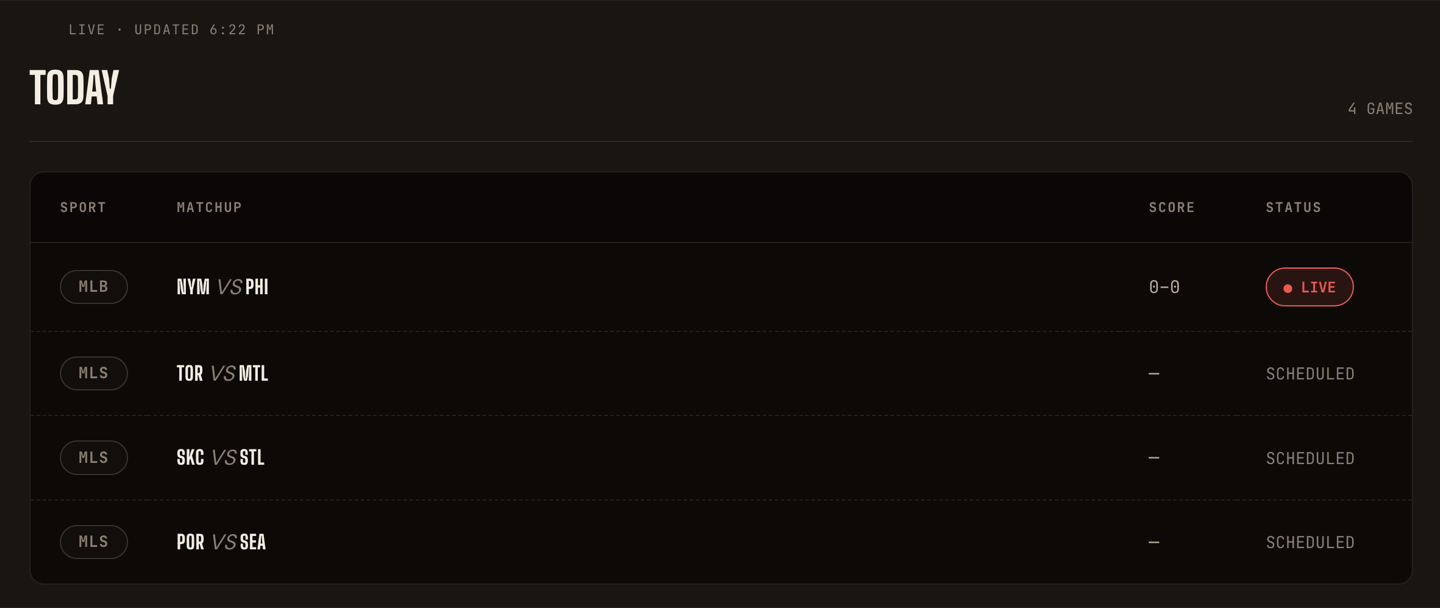
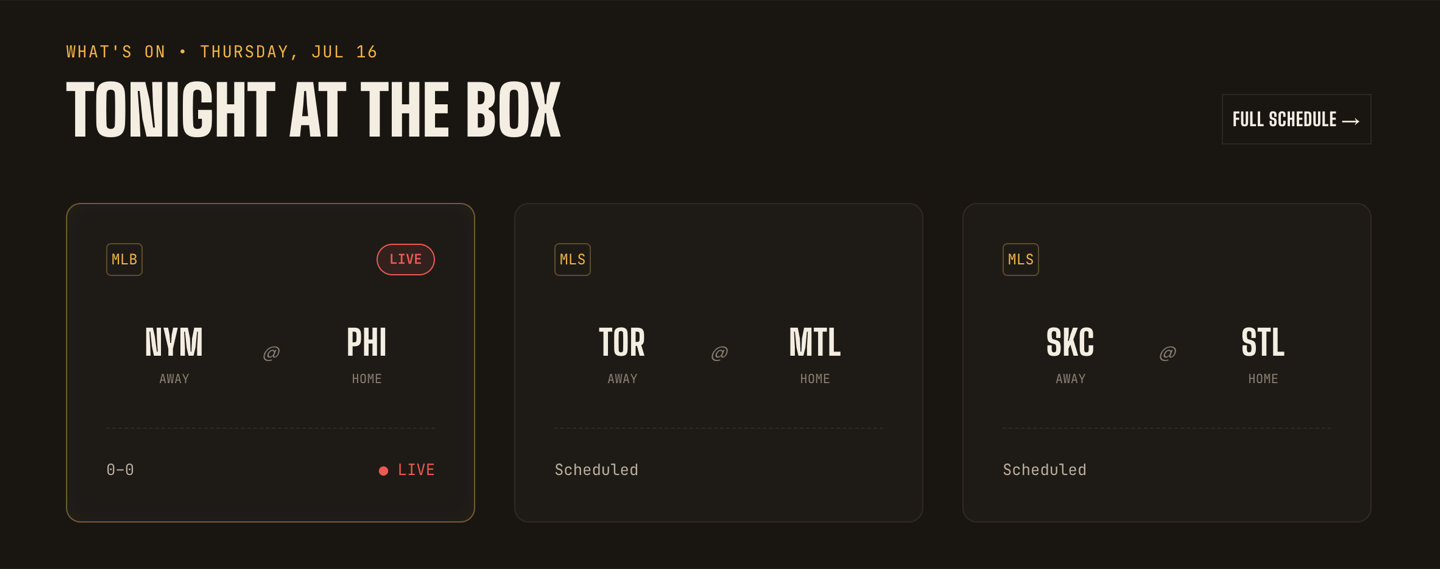
[Feature] Updated sports bar website with new screenshots and improved layout
- Added new screenshots for happy hour, menu sorting, and what's live today
- Removed old screenshots and updated descriptions for desktop pages
- Updated the layout to highlight happy hour and events more prominently
- Added a new section for the menu with improved category filtering

diff --git a/sports-bar-co.html b/sports-bar-co.html
@@ -97,17 +97,6 @@
         <div class="case-section">
             <h3>Live Scores</h3>
             <p>Seven leagues — NFL, MLB, NBA, NHL, CFB, CBB, and MLS — pulled live from ESPN's official API. The "What's On" board shows how many games are live right now, how many are coming up today, and a live countdown to the next tip-off. Guests can filter by day (up to 7 days ahead) and by sport. The board pulls fresh data on every load with no page refresh needed.</p>
-            <div class="browser-mockup ss-clickable" onclick="openLightbox(this)">
-                <div class="browser-bar">
-                    <div class="browser-dots">
-                        <div class="browser-dot close"></div>
-                        <div class="browser-dot minimize"></div>
-                        <div class="browser-dot maximize"></div>
-                    </div>
-                    <div class="browser-url">the-sports-bar.vercel.app/games.html</div>
-                </div>
-                <img src="assets/images/thesportsbarco/screenshot-games.png" alt="Live scores — 7 leagues, ESPN API, day and sport filters" style="width:100%;display:block;" />
-            </div>
         </div>
 
         <div class="case-section">
@@ -119,65 +108,18 @@
         </div>
 
         <div class="case-section">
-            <h3>Desktop Pages</h3>
-            <p style="font-size:0.85em;color:var(--color-text-muted);margin:-0.5em 0 1.25em;">Click any screenshot to enlarge.</p>
-            <div class="screenshot-scroll-track">
-                <div class="desktop-ss-item">
-                    <div class="browser-mockup ss-clickable" onclick="openLightbox(this)">
-                        <div class="browser-bar">
-                            <div class="browser-dots">
-                                <div class="browser-dot close"></div>
-                                <div class="browser-dot minimize"></div>
-                                <div class="browser-dot maximize"></div>
-                            </div>
-                            <div class="browser-url">the-sports-bar.vercel.app</div>
-                        </div>
-                        <img src="assets/images/thesportsbarco/screenshot-home.png" alt="Home page" />
-                    </div>
-                    <p>Home — hero, live game ticker, and weekly lineup.</p>
-                </div>
-                <div class="desktop-ss-item">
-                    <div class="browser-mockup ss-clickable" onclick="openLightbox(this)">
-                        <div class="browser-bar">
-                            <div class="browser-dots">
-                                <div class="browser-dot close"></div>
-                                <div class="browser-dot minimize"></div>
-                                <div class="browser-dot maximize"></div>
-                            </div>
-                            <div class="browser-url">the-sports-bar.vercel.app/menu.html</div>
-                        </div>
-                        <img src="assets/images/thesportsbarco/screenshot-menu.png" alt="Menu page" />
-                    </div>
-                    <p>Menu — kitchen status, category filters, and instant client-side filtering.</p>
-                </div>
-                <div class="desktop-ss-item">
-                    <div class="browser-mockup ss-clickable" onclick="openLightbox(this)">
-                        <div class="browser-bar">
-                            <div class="browser-dots">
-                                <div class="browser-dot close"></div>
-                                <div class="browser-dot minimize"></div>
-                                <div class="browser-dot maximize"></div>
-                            </div>
-                            <div class="browser-url">the-sports-bar.vercel.app/events.html</div>
-                        </div>
-                        <img src="assets/images/thesportsbarco/screenshot-events.png" alt="Events page" />
-                    </div>
-                    <p>Events — happy hour countdown and weekly events calendar from Supabase.</p>
-                </div>
-                <div class="desktop-ss-item">
-                    <div class="browser-mockup ss-clickable" onclick="openLightbox(this)">
-                        <div class="browser-bar">
-                            <div class="browser-dots">
-                                <div class="browser-dot close"></div>
-                                <div class="browser-dot minimize"></div>
-                                <div class="browser-dot maximize"></div>
-                            </div>
-                            <div class="browser-url">the-sports-bar.vercel.app/about.html</div>
-                        </div>
-                        <img src="assets/images/thesportsbarco/screenshot-about.png" alt="About page" />
-                    </div>
-                    <p>About — bar history, venue stats, and space details.</p>
-                </div>
+            <h3>Happy Hour &amp; Events</h3>
+            <p>A live countdown to happy hour and a weekly events calendar pulled from Supabase — so the site always reflects what's actually happening at the bar that week.</p>
+            <div class="ss-clickable" onclick="openLightbox(this)" style="border-radius:8px;overflow:hidden;border:1px solid var(--color-border);box-shadow:0 4px 20px rgba(0,0,0,0.07);">
+                <img src="assets/images/thesportsbarco/screenshot-happyhour.png" alt="Happy hour countdown and weekly events calendar" style="width:100%;display:block;" />
+            </div>
+        </div>
+
+        <div class="case-section">
+            <h3>Menu</h3>
+            <p>The full menu with client-side category filtering — guests can browse by section without a page reload.</p>
+            <div class="ss-clickable" onclick="openLightbox(this)" style="border-radius:8px;overflow:hidden;border:1px solid var(--color-border);box-shadow:0 4px 20px rgba(0,0,0,0.07);">
+                <img src="assets/images/thesportsbarco/screenshot-menusorting.png" alt="Menu with category filters and sorting" style="width:100%;display:block;" />
             </div>
         </div>
 
